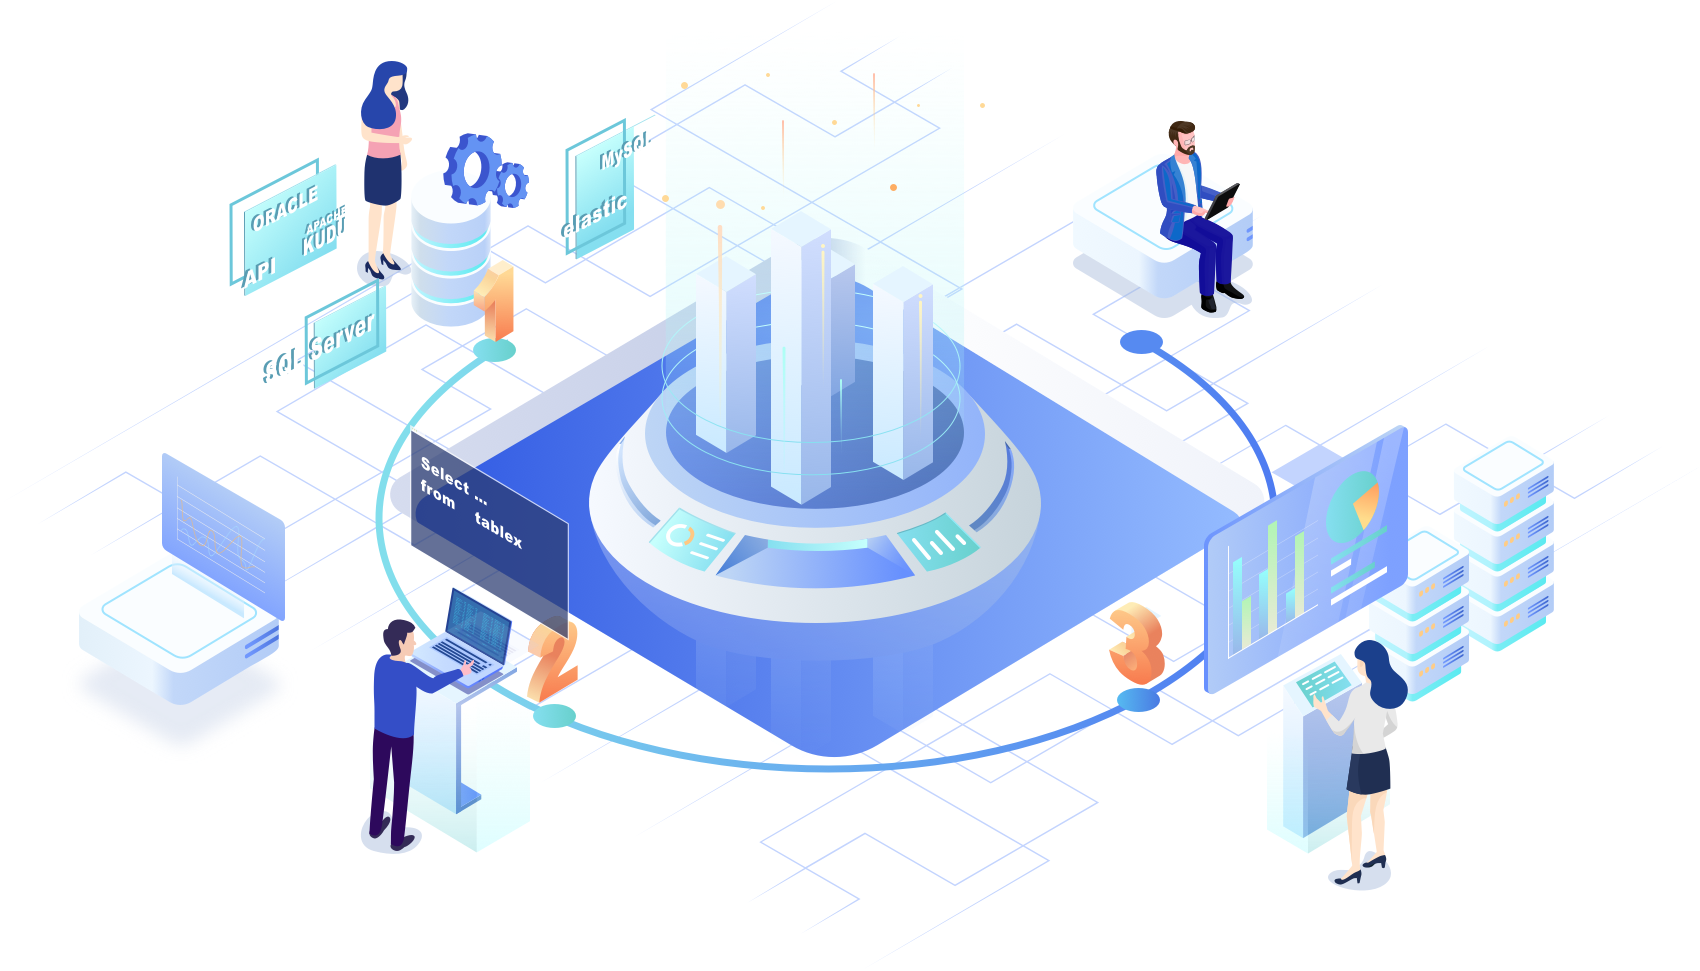
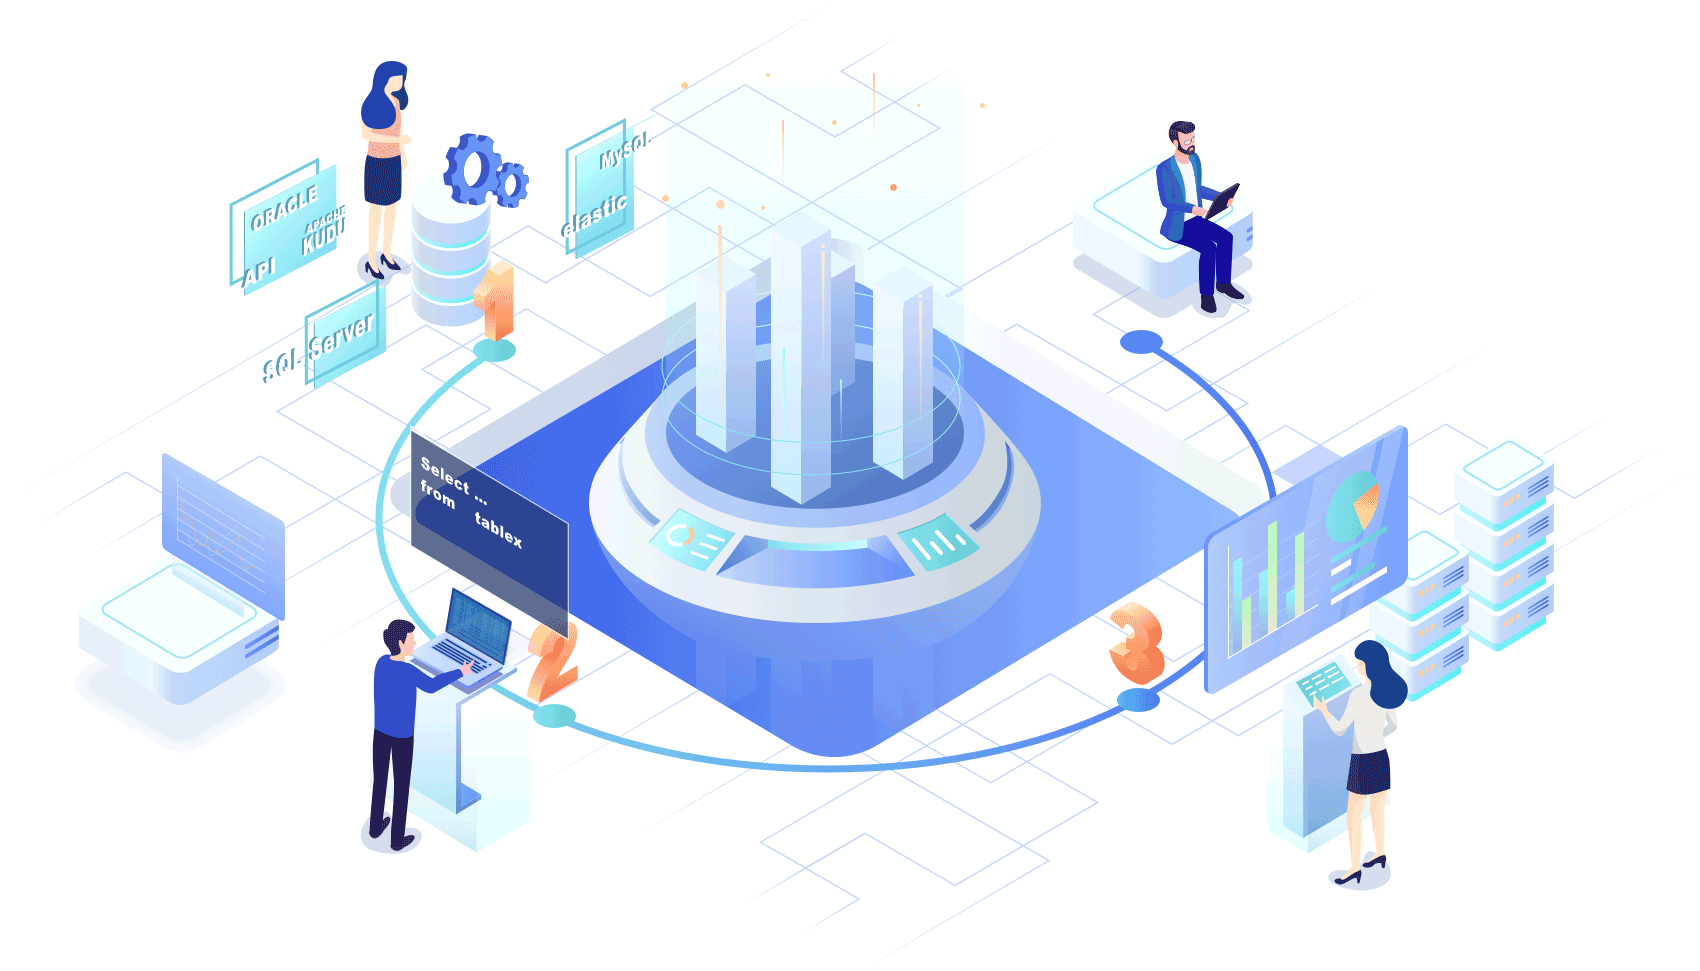
图片压缩

diff --git a/report-ui/src/views/login.vue b/report-ui/src/views/login.vue
@@ -13,7 +13,7 @@
       <img src="@/assets/images/home-logo.png" alt="logo" />
     </div>
     <div class="login_contant">
-      <img src="@/assets/images/login.png" alt="image" class="login_img" />
+      <img src="@/assets/images/login.jpg" alt="image" class="login_img" />
       <el-form
         ref="loginForm"
         :model="loginForm"
